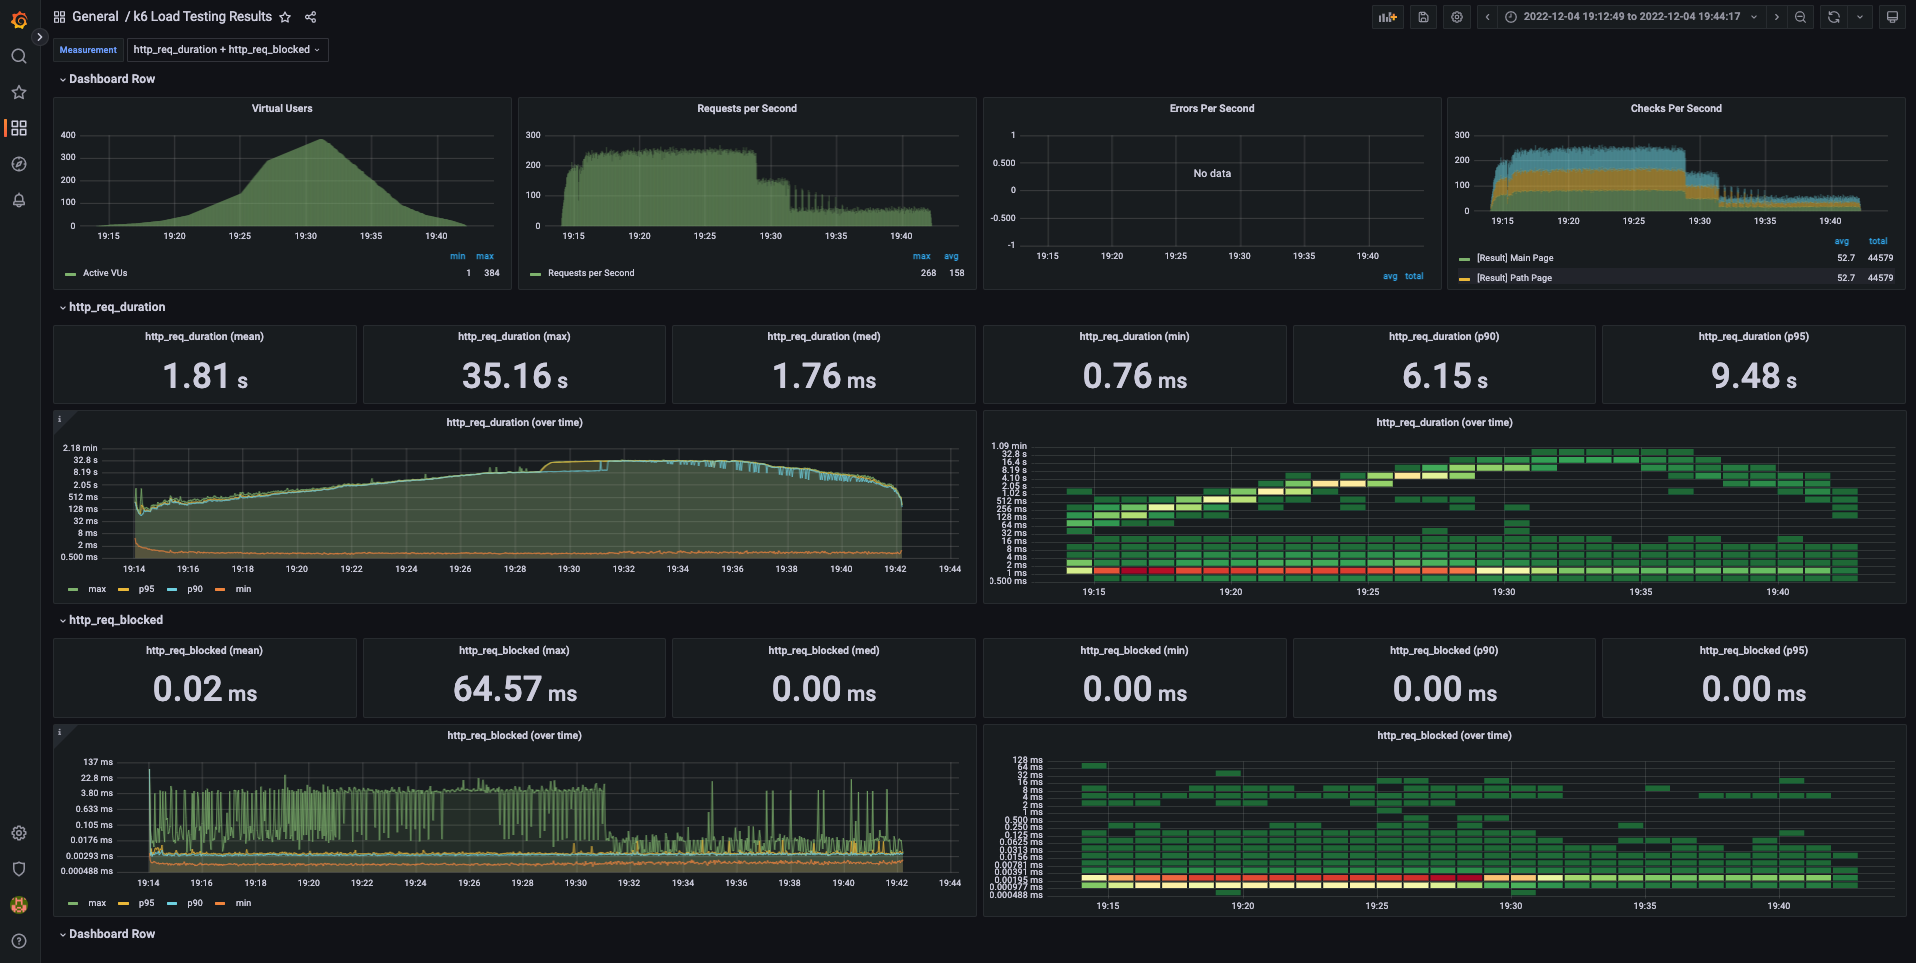
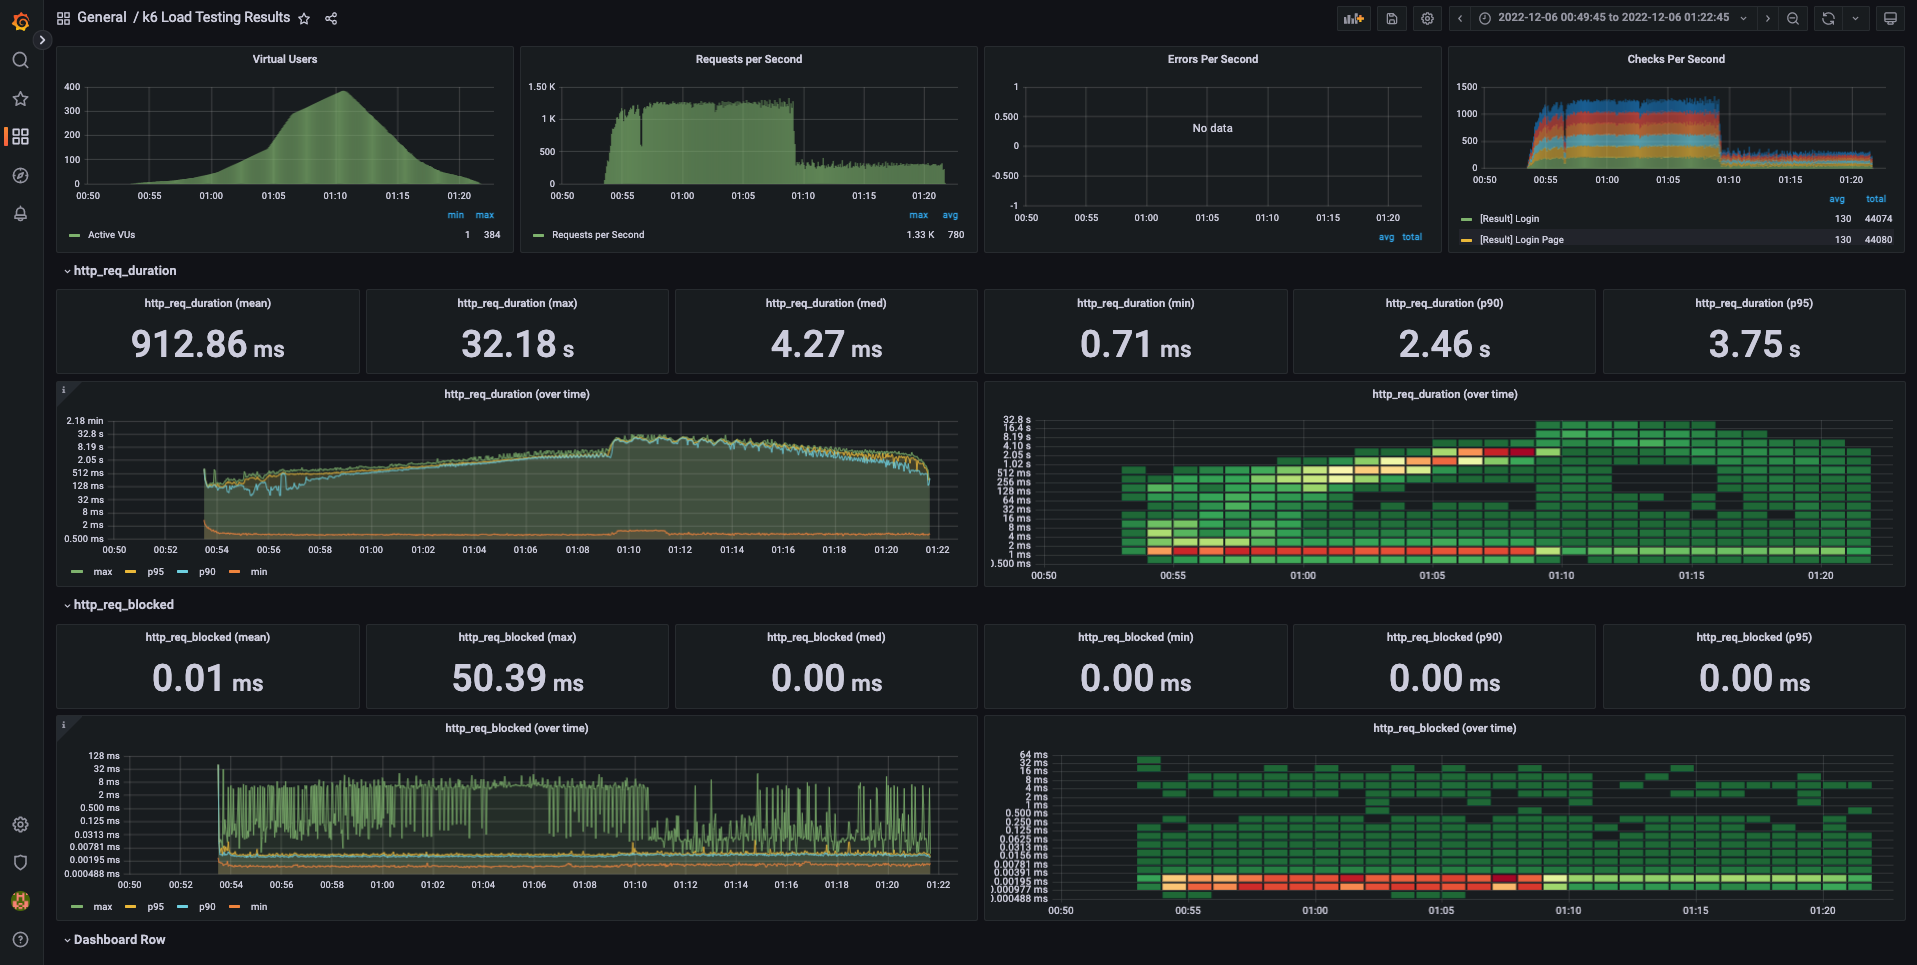
docs(README.md): stress 테스트 시나리오 수정 및 테스트 결과 수정
- 로그인 시나리오 추가

diff --git a/README.md b/README.md
@@ -496,26 +496,69 @@ export let options = {
 };
 
 const BASE_URL = 'https://ilmare-cbk-subway.kro.kr';
+const USERNAME = 'ilmare-cbk@runningmap.com';
+const PASSWORD = '1234';
 
-export function mainPage() {
+function mainPage() {
   let response = http.get(`${BASE_URL}`);
   check(response, {'[Result] Main Page': (response) => response.status === 200});
 }
 
-export function pathPage() {
+function loginPage() {
+  let response = http.get(`${BASE_URL}/login`);
+  check(response, {'[Result] Login Page': (response) => response.status === 200});
+}
+
+function login() {
+  const payload = JSON.stringify({
+    email: USERNAME,
+    password: PASSWORD
+  });
+
+  const params = {
+    headers: {'Content-Type': 'application/json'}
+  };
+
+  let response = http.post(`${BASE_URL}/login/token`, payload, params);
+  check(response, {'[Result] Login': (response) => response.status === 200});
+
+  return response.json('accessToken');
+}
+
+function me(accessToken) {
+  let authHeaders = {
+    headers: {
+      Authorization: `Bearer ${accessToken}`
+    }
+  };
+
+  let response = http.get(`${BASE_URL}/members/me`, authHeaders).json();
+  check(response, {'[Result] me': (response) => response.id != 0});
+}
+
+function pathPage() {
   let response = http.get(`${BASE_URL}/path`);
   check(response, {'[Result] Path Page': (response) => response.status === 200});
 }
 
-export function searchPath() {
-  let response = http.get(`${BASE_URL}/paths/?source=1&target=178`);
+function searchPath(accessToken) {
+  let authHeaders = {
+    headers: {
+      Authorization: `Bearer ${accessToken}`
+    }
+  };
+
+  let response = http.get(`${BASE_URL}/paths/?source=1&target=178`, authHeaders);
   check(response, {'[Result] Search Path': (response) => response.status === 200});
 }
 
 export default function () {
   mainPage();
+  loginPage();
+  const accessToken = login();
+  me(accessToken);
   pathPage();
-  searchPath();
+  searchPath(accessToken);
 }
 ```
 
@@ -540,32 +583,37 @@ export default function () {
            * default: Up to 384 looping VUs for 28m10s over 16 stages (gracefulRampDown: 30s, gracefulStop: 30s)
 
 
-running (28m10.1s), 000/384 VUs, 44569 complete and 10 interrupted iterations
+running (28m10.1s), 000/384 VUs, 44047 complete and 33 interrupted iterations
 default ✓ [======================================] 000/384 VUs  28m10s
 
      ✓ [Result] Main Page
+     ✓ [Result] Login Page
+     ✗ [Result] Login
+      ↳  99% — ✓ 44074 / ✗ 6
+     ✓ [Result] me
      ✓ [Result] Path Page
      ✗ [Result] Search Path
-      ↳  98% — ✓ 44112 / ✗ 457
+      ↳  99% — ✓ 44038 / ✗ 9
 
-     checks.........................: 99.65% ✓ 133270    ✗ 457
-     data_received..................: 244 MB 144 kB/s
-     data_sent......................: 17 MB  10 kB/s
-     http_req_blocked...............: avg=22.54µs min=965ns    med=2.36µs  max=64.56ms p(90)=3.66µs  p(95)=4.26µs
-     http_req_connecting............: avg=3.02µs  min=0s       med=0s      max=15.24ms p(90)=0s      p(95)=0s
-   ✗ http_req_duration..............: avg=1.8s    min=756.08µs med=1.75ms  max=35.16s  p(90)=6.14s   p(95)=9.47s
-       { expected_response:true }...: avg=1.7s    min=756.08µs med=1.74ms  max=35.16s  p(90)=5.86s   p(95)=9.24s
-     http_req_failed................: 0.34%  ✓ 457       ✗ 133270
-     http_req_receiving.............: avg=65.39µs min=15.45µs  med=53.33µs max=13.99ms p(90)=93.35µs p(95)=115µs
-     http_req_sending...............: avg=16.32µs min=4.57µs   med=11.57µs max=6.85ms  p(90)=24.29µs p(95)=29.85µs
-     http_req_tls_handshaking.......: avg=15.54µs min=0s       med=0s      max=41.92ms p(90)=0s      p(95)=0s
-     http_req_waiting...............: avg=1.8s    min=706.46µs med=1.67ms  max=35.16s  p(90)=6.14s   p(95)=9.47s
-     http_reqs......................: 133727 79.122152/s
-     iteration_duration.............: avg=5.41s   min=57.2ms   med=2.45s   max=35.16s  p(90)=11.01s  p(95)=28.75s
-     iterations.....................: 44569  26.370106/s
-     vus............................: 1      min=1       max=384
-     vus_max........................: 384    min=384     max=384
+     checks.........................: 99.99% ✓ 264424     ✗ 15
+     data_received..................: 330 MB 195 kB/s
+     data_sent......................: 55 MB  33 kB/s
+     http_req_blocked...............: avg=14.75µs  min=923ns    med=2.06µs  max=50.38ms p(90)=3.37µs  p(95)=4.02µs
+     http_req_connecting............: avg=1.51µs   min=0s       med=0s      max=14.78ms p(90)=0s      p(95)=0s
+   ✗ http_req_duration..............: avg=912.86ms min=709.84µs med=4.27ms  max=32.18s  p(90)=2.46s   p(95)=3.74s
+       { expected_response:true }...: avg=910.6ms  min=709.84µs med=4.27ms  max=32.18s  p(90)=2.46s   p(95)=3.74s
+     http_req_failed................: 0.00%  ✓ 23         ✗ 264416
+     http_req_receiving.............: avg=58.86µs  min=13.81µs  med=46.47µs max=17.47ms p(90)=87.67µs p(95)=105.56µs
+     http_req_sending...............: avg=17.83µs  min=4.8µs    med=12.37µs max=20.79ms p(90)=25.09µs p(95)=32µs
+     http_req_tls_handshaking.......: avg=9.85µs   min=0s       med=0s      max=28.24ms p(90)=0s      p(95)=0s
+     http_req_waiting...............: avg=912.78ms min=677.02µs med=4.18ms  max=32.18s  p(90)=2.46s   p(95)=3.74s
+     http_reqs......................: 264439 156.464657/s
+     iteration_duration.............: avg=5.45s    min=56.68ms  med=2.27s   max=1m13s   p(90)=10.37s  p(95)=24.86s
+     iterations.....................: 44047  26.06196/s
+     vus............................: 1      min=1        max=384
+     vus_max........................: 384    min=384      max=384
 
+ERRO[1691] some thresholds have failed
 ```
 
 </details>
